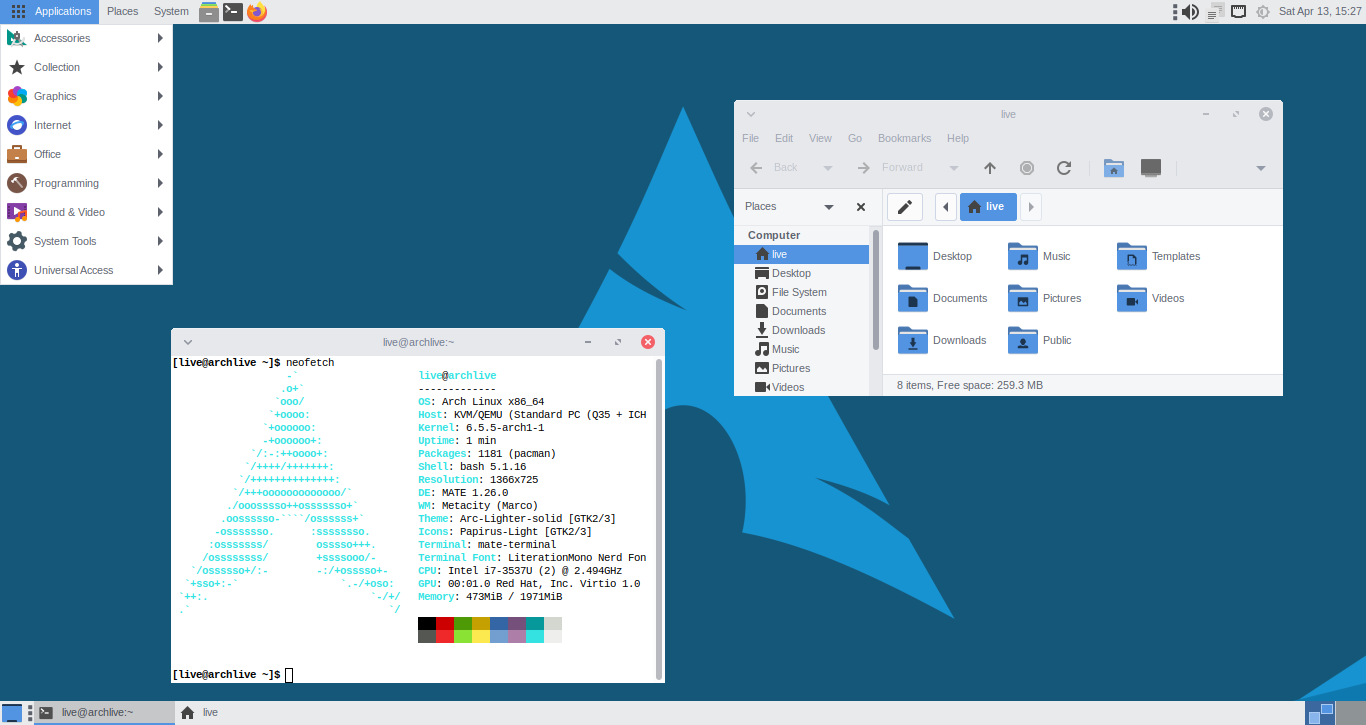
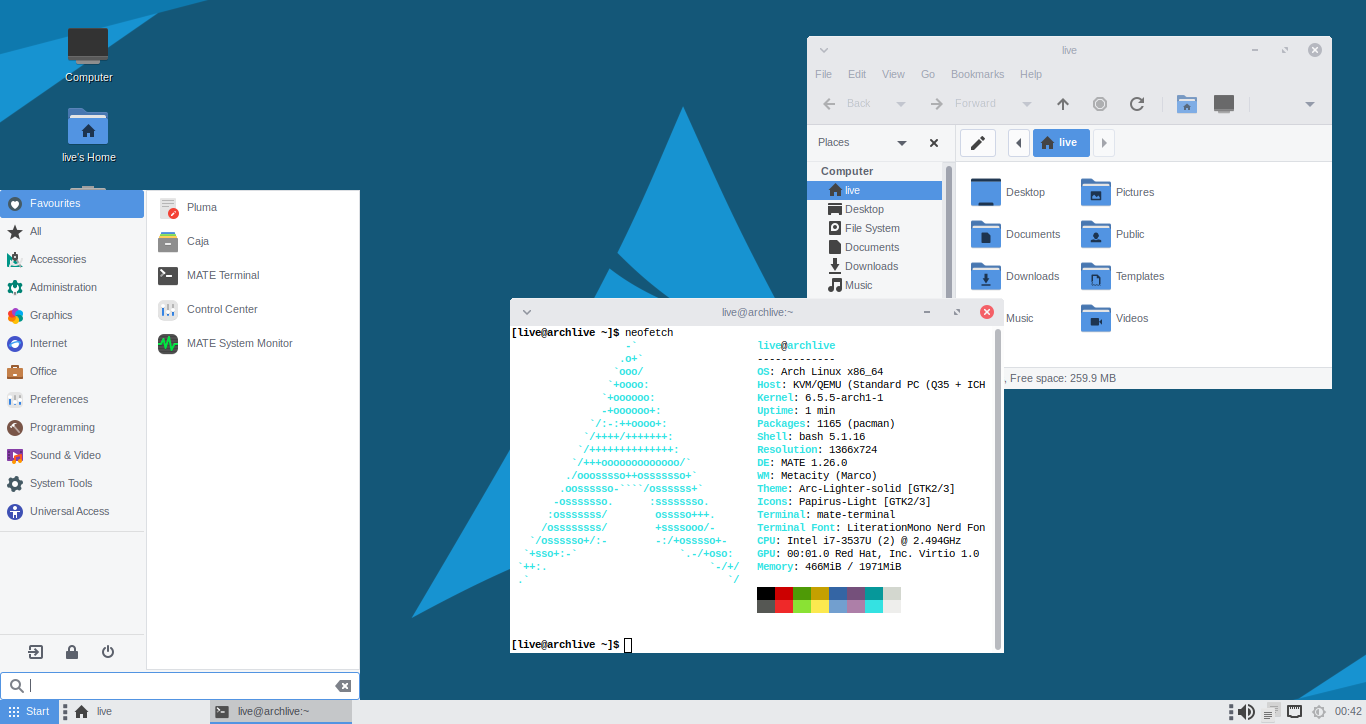
Arch Linux Custom

diff --git a/README.md b/README.md
@@ -2,6 +2,8 @@
 
 My Personal lists, scripts, and configurations for my Arch Linux with MATE Desktop installation while try to be minimal as possible.
 
+![](archiso/screenshots/archmate.png)
+
 This repository store all my personal package lists, script, and configurations for my Arch Linux installation.
 This also store many of development work notes.
 If you find anything here to be useful, feel free to use as you like.
